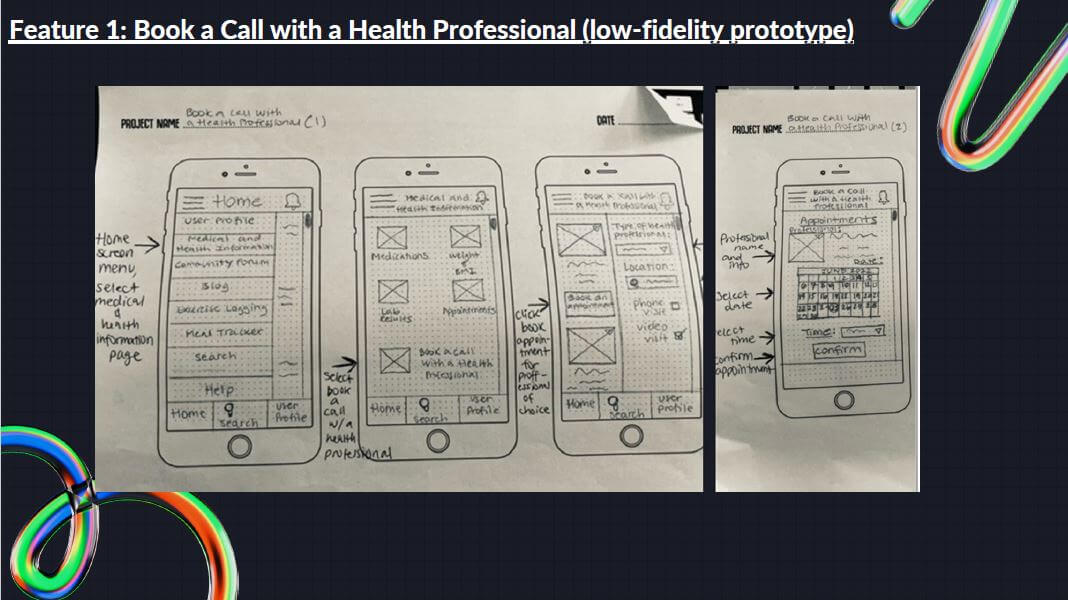
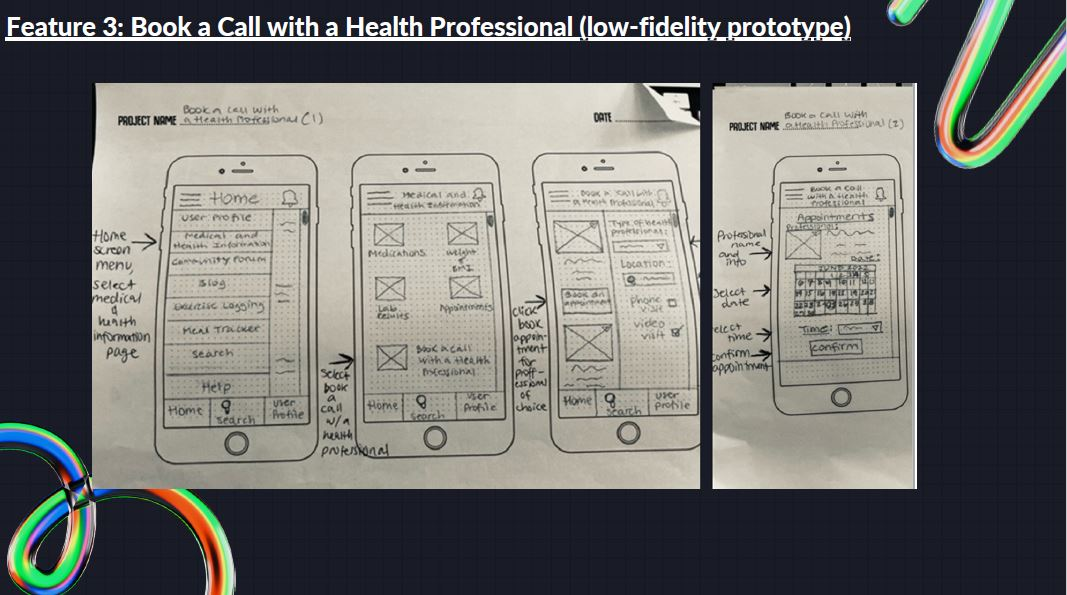
Revise title of feature 3-low fidelity prototype

diff --git a/js/olive.html b/js/olive.html
@@ -1,0 +1,278 @@
+<!DOCTYPE html>
+<html lang="en" dir="ltr">    
+  <head>
+    <meta charset="utf-8">
+    <title> Apule Osika UX Designer Washington D.C. </title>
+  </head>
+  <body> 
+    <header>
+      <div>
+        <img src="https://via.placeholder.com/150x50?text=Logo" alt="Apule Osika">
+         <nav>
+            <ul>
+              <li><a href="index.html">Work</a></li>
+              <li><a href="about.html">About</a></li>
+              <li><a href="#contact">Contact</a></li>
+            </ul>
+          </nav>
+      </div>
+    </header> 
+    <main>
+        <div>
+            <div>
+              <h1> Olive </h1> 
+            </div>
+            <div>
+              <div>
+                <h2> Overview </h2>
+                <h3> Purpose </h3>
+                <p> Many individuals have busy jobs and no time for “work-life balance.” The Olive app aims to make staying on top of health 
+                much easier by providing a one-stop shop for individual's medical, health, and wellness needs. </p>
+                <h3> Objective </h3>
+                 <p> My challenge was to design Olive features that improved user access to a centralized area for health and wellness 
+                resources as well as medical information. </p>
+                <h3> Role </h3>
+                <p> UX Researcher, UX/UI Designer</p>
+                <h3> Duration </h3>
+                <p> 10 months (May 2022- March 2023)</p>
+                <h3> Tools </h3>
+                <ul>
+                    <li> Figma </li>
+                    <li> Canva </li>
+                    <li> Microsoft Office Suite </li>
+                    <li> Zoom </li>
+                </ul>
+            </div>
+            <div>
+                <div>
+                  <h2> Process </h2>
+                  <h3> User Research </h3>
+                  <p> I performed user interviews to gain insights into what my end users want, need, and their behaviors.
+                      From my exploratory research, three User Personas emerged. </p>
+                      <div>
+                        <div>
+                          <picture>
+                            <source srcset= "img/Olive/Olive-Three User Personas.jpg" media="(max-width:767px)">
+                            <img src="C:\Users\Apule\Desktop\Portfolio Site (Apule Osika)\img\Olive\Olive- Three User Personas.JPG" alt=" Three User Personas">
+                         </picture>
+                        </div>
+                     <div>
+                        <div>
+                            <div>
+                              <picture>
+                                <source srcset= "img/Olive/Olive-Gen X,Y,Z wants.jpg" media="(max-width:767px)">
+                                <img src="C:\Users\Apule\Desktop\Portfolio Site (Apule Osika)\img\Olive\Olive- Gen X, Y, Z wants.JPG" alt=" Gen X,Y,Z wants">
+                             </picture>
+                            </div>
+                         <div>
+                         <p> I chose to make Olivia my primary persona for the Olive project due to fact that mental health needs are a large burden of illness in
+                             youth today, and because this problem could be handled more successfully through apps like Olive. </p>
+
+                             <h3> About Olivia</h3>
+                        <div>
+                          <div>
+                            <picture>
+                            <source srcset= "img/Olive/Olivia-Persona.jpg" media="(max-width:767px)">
+                            <img src="C:\Users\Apule\Desktop\Portfolio Site (Apule Osika)\img\Olive\Olive- Olivia Persona.jpg" alt="Olivia Persona">
+                         </picture>
+                         <div>
+                            <div>
+                              <picture>
+                              <source srcset= "img/Olive/Olivia-Problem.jpg" media="(max-width:767px)">
+                              <img src="C:\Users\Apule\Desktop\Portfolio Site (Apule Osika)\img\Olive\Olivia- Problem.jpg" alt="Olivia Problem">
+                           </picture>
+                           <div>
+                            <div>
+                           <p> Olivia's Journey map showcases Olivia's potential thoughts, emotions, wants and needs while completing a task within the Olive app. 
+                            Based on her scenario, Olivia aims to complete the task of logging and storing a medication in the app. Below are the steps she needs to 
+                            follow to successfully complete this task.</p>
+                            <div>
+                                <div>
+                                  <picture>
+                                    <source srcset= "img/Olive/Olivia-Journey Map.jpg" media="(max-width:767px)">
+                                    <img src="C:\Users\Apule\Desktop\Portfolio Site (Apule Osika)\img\Olive\Olivia- Journey Map.JPG" alt=" Olivia Journey Map">
+                                 </picture>
+                                </div>
+                             <div>
+                               <p> This is an example of one of Olivia's designed user flows. It shows the pages she will interact with in order to log and store a medication
+                                   in Olive.</p>
+                                   <div>
+                                    <div>
+                                      <picture>
+                                        <source srcset= "img/Olive/Olivia-User Flow.jpg" media="(max-width:767px)">
+                                        <img src="C:\Users\Apule\Desktop\Portfolio Site (Apule Osika)\img\Olive\Olivia- User Flow.JPG" alt=" Olivia User Flow">
+                                     </picture>
+                                    </div>
+                                 <div>
+                                    <div>
+                                        <div>
+                                          <picture>
+                                            <source srcset= "img/Olive/User Flow Chart key.jpg" media="(max-width:767px)">
+                                            <img src="C:\Users\Apule\Desktop\Portfolio Site (Apule Osika)\img\Olive\User flow chart key.JPG" alt=" User Flow Chart Key">
+                                         </picture>
+                                        </div>
+                                     <div>
+                                        <div>
+                                            <div>
+                                              <h3> Information Architecture</h3>
+                                              <p> Before moving on to the prototyping stage of the Olive project, I conducted cardsorting, which was the first iteration of the 
+                                                  Olive project, and created a sitemap that laid out the information architecture and structure of the Olive app. </p>
+                                                  <div>
+                                                    <div>
+                                                      <picture>
+                                                        <source srcset= "img/Olive/Revised Sitemap.jpg" media="(max-width:767px)">
+                                                        <img src="C:\Users\Apule\Desktop\Portfolio Site (Apule Osika)\img\Olive\Revised Sitemap.jpg" alt=" Revised Sitemap">
+                                                     </picture>
+                                                    </div>
+                                                    <div>
+                                                        <div>
+                                                          <h3> Prototyping </h3>
+                                                          <p> Next, I designed low, mid, and high fidelity prototypes that followed the sitemap structure and that followed Olivia's 
+                                                              three designed user flows. These three user flows were pertinent to Olivia's mental health needs, and are the three main
+                                                              features of the Olive app.</p>
+                                                              <br> <i> User Flow 1:</i> Sign Up and Log in 
+                                                              <br> <i> User Flow 2: </i> Log and Store a Medication 
+                                                              <br> <i> User Flow 3: </i> Book a Call with a Health Professional 
+                                                        <div>
+                                                    <div>
+                                                        <div>
+                                                            <div>
+                                                               <h3> Flow 1</h3>
+                                                               <div>
+                                                                <div>
+                                                                  <picture>
+                                                                    <source srcset= "img/Olive/Feature 1- Low Fidelity Prototype.jpg" media="(max-width:767px)">
+                                                                    <img src="C:\Users\Apule\Desktop\Portfolio Site (Apule Osika)\img\Olive\Feature 1- Low Fidelity Prototype.jpg" alt=" Feature 1- Low Fidelity Prototype">
+                                                                 </picture>
+                                                                </div>
+                                                             <div>
+                                                                <div>
+                                                                    <div>
+                                                                      <picture>
+                                                                        <source srcset= "img/Olive/Feature 1- Mid-Fidelity Prototype.jpg" media="(max-width:767px)">
+                                                                        <img src="C:\Users\Apule\Desktop\Portfolio Site (Apule Osika)\img\Olive\Feature 1- Mid- Fidelity Prototype.jpg" alt=" Feature 1- Mid Fidelity Prototype">
+                                                                     </picture>
+                                                                    </div>
+                                                                 <div>
+                                                                    <div>
+                                                                        <div>
+                                                                          <picture>
+                                                                            <source srcset= "img/Olive/Feature 1- High Fidelity Prototype.jpg" media="(max-width:767px)">
+                                                                            <img src="C:\Users\Apule\Desktop\Portfolio Site (Apule Osika)\img\Olive\Feature 1- High Fidelity Prototype.jpg" alt=" Feature 1- High Fidelity Prototype">
+                                                                         </picture>
+                                                                        </div>
+                                                                     <div>
+                                                                        <div>
+                                                                            <div>
+                                                                              <picture>
+                                                                                <source srcset= "img/Olive/Feature 1- Changes Recap.jpg" media="(max-width:767px)">
+                                                                                <img src="C:\Users\Apule\Desktop\Portfolio Site (Apule Osika)\img\Olive\Feature 1- Changes Recap.jpg" alt=" Feature 1- Changes Recap">
+                                                                             </picture>
+                                                                            </div>
+                                                                         <div>
+                                                                            <div>
+                                                                                <div>
+                                                                                   <h3> Flow 2</h3>
+                                                                                   <div>
+                                                                                    <div>
+                                                                                      <picture>
+                                                                                        <source srcset= "img/Olive/Feature 2- Low Fidelity Prototype.jpg" media="(max-width:767px)">
+                                                                                        <img src="C:\Users\Apule\Desktop\Portfolio Site (Apule Osika)\img\Olive\Feature 2- Low Fidelity Prototype.JPG" alt=" Feature 2- Low Fidelity Prototype">
+                                                                                     </picture>
+                                                                                    </div>
+                                                                                 <div>
+                                                                                    <div>
+                                                                                        <div>
+                                                                                          <picture>
+                                                                                            <source srcset= "img/Olive/Feature 2- Mid-Fidelity Prototype.jpg" media="(max-width:767px)">
+                                                                                            <img src="C:\Users\Apule\Desktop\Portfolio Site (Apule Osika)\img\Olive\Feature 2- Mid Fidelity Prototype.JPG" alt=" Feature 2- Mid Fidelity Prototype">
+                                                                                         </picture>
+                                                                                        </div>
+                                                                                     <div>
+                                                                                        <div>
+                                                                                            <div>
+                                                                                              <picture>
+                                                                                                <source srcset= "img/Olive/Feature 2- High Fidelity Prototype.jpg" media="(max-width:767px)">
+                                                                                                <img src="C:\Users\Apule\Desktop\Portfolio Site (Apule Osika)\img\Olive\Feature 2- High Fidelity Prototype.JPG" alt=" Feature 2- High Fidelity Prototype">
+                                                                                             </picture>
+                                                                                            </div>
+                                                                                         <div>
+                                                                                            <div>
+                                                                                                <div>
+                                                                                                  <picture>
+                                                                                                    <source srcset= "img/Olive/Feature 2- Changes Recap.jpg" media="(max-width:767px)">
+                                                                                                    <img src="C:\Users\Apule\Desktop\Portfolio Site (Apule Osika)\img\Olive\Feature 2- Changes Recap.JPG" alt=" Feature 2- Changes Recap">
+                                                                                                 </picture>
+                                                                                                </div>
+                                                                                             <div>
+                                                                                                <div>
+                                                                                                    <div>
+                                                                                                       <h3> Flow 3</h3>
+                                                                                                       <div>
+                                                                                                        <div>
+                                                                                                          <picture>
+                                                                                                            <source srcset= "img/Olive/Feature 3- Low Fidelity Prototype.jpg" media="(max-width:767px)">
+                                                                                                            <img src="C:\Users\Apule\Desktop\Portfolio Site (Apule Osika)\img\Olive\Feature 3- Low Fidelity Prototype.JPG" alt=" Feature 3- Low Fidelity Prototype">
+                                                                                                         </picture>
+                                                                                                        </div>
+                                                                                                     <div>
+                                                                                                        <div>
+                                                                                                            <div>
+                                                                                                              <picture>
+                                                                                                                <source srcset= "img/Olive/Feature 3- Mid-Fidelity Prototype.jpg" media="(max-width:767px)">
+                                                                                                                <img src="C:\Users\Apule\Desktop\Portfolio Site (Apule Osika)\img\Olive\Feature 3- Mid Fidelity Prototype.JPG" alt=" Feature 3- Mid Fidelity Prototype">
+                                                                                                             </picture>
+                                                                                                            </div>
+                                                                                                         <div>
+                                                                                                            <div>
+                                                                                                                <div>
+                                                                                                                  <picture>
+                                                                                                                    <source srcset= "img/Olive/Feature 3- High Fidelity Prototype.jpg" media="(max-width:767px)">
+                                                                                                                    <img src="C:\Users\Apule\Desktop\Portfolio Site (Apule Osika)\img\Olive\Feature 3- High Fidelity Prototype.JPG" alt=" Feature 3- High Fidelity Prototype">
+                                                                                                                 </picture>
+                                                                                                                </div>
+                                                                                                             <div>
+                                                                                                                <div>
+                                                                                                                    <div>
+                                                                                                                      <picture>
+                                                                                                                        <source srcset= "img/Olive/Feature 3- Changes Recap.jpg" media="(max-width:767px)">
+                                                                                                                        <img src="C:\Users\Apule\Desktop\Portfolio Site (Apule Osika)\img\Olive\Feature 3- Changes Recap.JPG" alt=" Feature 3- Changes Recap">
+                                                                                                                     </picture>
+                                                                                                                    </div>
+                                                                                                                 <div>
+                                        
+                    
+
+
+
+
+
+
+
+
+
+
+
+
+
+                                                            
+
+    </main> <div>
+    <footer>
+      <div>
+        <h2>Get in Touch</h2>
+        <p>If you like my work, let's get in touch:
+        </p>
+      </div>
+      <div>
+        <a href="mailto:apule.osika12@gmail.com"> Email me</a>
+      </div>
+      <div>
+        <a href="https://www.linkedin.com/in/apuleosika/" target="_blank">
+        <svg height="32" style="fill-rule:evenodd;clip-rule:evenodd;stroke-linejoin:round;stroke-miterlimit:2;" version="1.1" viewBox="0 0 512 512" width="32" xml:space="preserve" xmlns="http://www.w3.org/2000/svg" xmlns:serif="http://www.serif.com/" xmlns:xlink="http://www.w3.org/1999/xlink"><g id="g5891"><path d="M512,64c0,-35.323 -28.677,-64 -64,-64l-384,0c-35.323,0 -64,28.677 -64,64l0,384c0,35.323 28.677,64 64,64l384,0c35.323,0 64,-28.677 64,-64l0,-384Z" id="background" style="fill:#2867b2;"/><g id="shapes"><rect height="257.962" id="rect11" style="fill:#fff;" width="85.76" x="61.053" y="178.667"/><path d="M104.512,54.28c-29.341,0 -48.512,19.29 -48.512,44.573c0,24.752 18.588,44.574 47.377,44.574l0.554,0c29.903,0 48.516,-19.822 48.516,-44.574c-0.555,-25.283 -18.611,-44.573 -47.935,-44.573Z" id="path13-0" style="fill:#fff;fill-rule:nonzero;"/><path d="M357.278,172.601c-45.49,0 -65.866,25.017 -77.276,42.589l0,-36.523l-85.738,0c1.137,24.197 0,257.961 0,257.961l85.737,0l0,-144.064c0,-7.711 0.554,-15.42 2.827,-20.931c6.188,-15.4 20.305,-31.352 43.993,-31.352c31.012,0 43.436,23.664 43.436,58.327l0,138.02l85.741,0l0,-147.93c0,-79.237 -42.305,-116.097 -98.72,-116.097Z" id="path15" style="fill:#fff;fill-rule:nonzero;"/></g></g></svg>
+      </div>
+      <p>Copyright Apule Osika 2023
+      </p>
+    </footer>
+  </body>
+</html>
